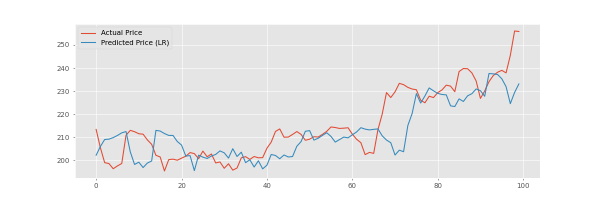
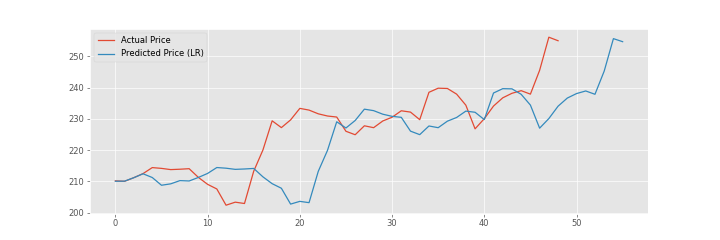
Add pretrained models (LSTM, XGB, LR) for Render deployment

diff --git a/main.py b/main.py
@@ -29,6 +29,11 @@ xgb_model = joblib.load("models/xgb_model.pkl")
 xgb_scaler = joblib.load("models/xgb_scaler.pkl")
 xgb_rmse = joblib.load("models/xgb_rmse.pkl")
 
+lr_model = joblib.load("models/lr_model.pkl")
+lr_scaler = joblib.load("models/lr_scaler.pkl")
+lr_rmse = joblib.load("models/lr_rmse.pkl")
+
+
 # Warm-up LSTM (avoid first-request delay)
 try:
     lstm_model.predict(np.zeros((1, 7, 1)))
@@ -107,7 +112,7 @@ def compute_rsi(series, period=14):
 # =================== Prediction Functions ===================
 def LSTM_ALGO(df):
     """Plot last 400 days with actual vs predicted trace + 7-day forecast"""
-    df = df.tail(400).reset_index(drop=True)
+    df = df.tail(300).reset_index(drop=True)
     closes = df['close'].values.reshape(-1, 1)
     scaled = lstm_scaler.transform(closes)
 
@@ -125,8 +130,8 @@ def LSTM_ALGO(df):
 
         # Plot last 100 aligned actual vs predicted
         plt.figure(figsize=(12, 4), dpi=60)
-        plt.plot(y_true[-100:], label='Actual Price')
-        plt.plot(y_pred[-100:], label='Predicted Price (LSTM)')
+        plt.plot(y_true[-60:], label='Actual Price')
+        plt.plot(y_pred[-60:], label='Predicted Price (LSTM)')
         plt.legend()
         plt.savefig('static/LSTM.png')
         plt.close()
@@ -150,7 +155,7 @@ def LSTM_ALGO(df):
 
 def XGBOOST_ALGO(df):
     """Train on 2000 rows, plot last 400 test rows (old OG version, 71 features)."""
-    df = df.tail(600).reset_index(drop=True)
+    df = df.tail(300).reset_index(drop=True)
     df['Return'] = df['close'].pct_change()
 
     # Lag features (30 days each → 60 features)
@@ -181,8 +186,8 @@ def XGBOOST_ALGO(df):
 
     # Plot last 100
     plt.figure(figsize=(12, 4), dpi=60)
-    plt.plot(test_df['close'].values[-100:], label='Actual Price')
-    plt.plot(pred_prices[-100:], label='Predicted Price (XGB)')
+    plt.plot(test_df['close'].values[-60:], label='Actual Price')
+    plt.plot(pred_prices[-60:], label='Predicted Price (XGB)')
     plt.legend()
     plt.savefig('static/XGB.png')
     plt.close()
@@ -247,47 +252,39 @@ def ARIMA_ALGO(df):
 
 
 def LIN_REG_ALGO(df):
-    """Baseline Linear Regression on recent 600 rows, plot last 100 test rows"""
-    from sklearn.preprocessing import StandardScaler
-    df = df.tail(600).reset_index(drop=True)   # limit rows
+    """Use pretrained Linear Regression for quick predictions."""
     forecast_out = 7
+    df = df.tail(300).reset_index(drop=True)
 
-    # simple moving averages + returns
-    df['MA7'] = df['close'].rolling(window=7).mean()
-    df['MA21'] = df['close'].rolling(window=21).mean()
-    df['Return'] = df['close'].pct_change()
+    df["MA7"] = df["close"].rolling(window=7).mean()
+    df["MA21"] = df["close"].rolling(window=21).mean()
+    df["Return"] = df["close"].pct_change()
     df = df.dropna().reset_index(drop=True)
 
-    # target is shifted price
-    df['target'] = df['close'].shift(-forecast_out)
-    df = df.dropna().reset_index(drop=True)
-
-    features = ['close', 'MA7', 'MA21', 'Return']
-    X, y = df[features].values, df['target'].values.reshape(-1, 1)
-    split_index = int(len(X) * 0.8)
-    X_train, X_test = X[:split_index], X[split_index:]
-    y_train, y_test = y[:split_index], y[split_index:]
-
-    scaler = StandardScaler()
-    X_train, X_test = scaler.fit_transform(X_train), scaler.transform(X_test)
-
-    model = LinearRegression().fit(X_train, y_train)
+    features = ["close", "MA7", "MA21", "Return"]
+    X = df[features].values
 
     # forecast next 7 days
-    forecast_set = model.predict(scaler.transform(df[features].tail(forecast_out)))
+    forecast_set = lr_model.predict(lr_scaler.transform(df[features].tail(forecast_out)))
     lr_pred = forecast_set[0][0]
     mean = float(forecast_set.mean())
-    error = math.sqrt(mean_squared_error(y_test, model.predict(X_test)))
 
-    # plot only last 100 test points
+    # plot last 100 actual vs predicted
+    split_index = int(len(X) * 0.8)
+    X_test = X[split_index:]
+    y_test = df["close"].shift(-forecast_out).dropna().values[split_index:]
+
+    y_pred_test = lr_model.predict(lr_scaler.transform(X_test))
+
     plt.figure(figsize=(12, 4), dpi=60)
-    plt.plot(y_test[-100:], label='Actual Price')
-    plt.plot(model.predict(X_test)[-100:], label='Predicted Price (LR)')
+    plt.plot(y_test[-60:], label="Actual Price")
+    plt.plot(y_pred_test[-60:], label="Predicted Price (LR)")
     plt.legend()
-    plt.savefig('static/LR.png')
+    plt.savefig("static/LR.png")
     plt.close()
 
-    return df, lr_pred, forecast_set, mean, error
+    return df, lr_pred, forecast_set, mean, lr_rmse
+
 
 
 
@@ -317,6 +314,8 @@ def insertintotable():
         arima_pred, error_arima = 0.0, "N/A"
     else:
         arima_pred, error_arima = ARIMA_ALGO(df.copy())
+    
+    
 
     lstm_pred, error_lstm, lstm_forecast = LSTM_ALGO(df.copy())
     _, lr_pred, forecast_set, mean, error_lr = LIN_REG_ALGO(df.copy())

diff --git a/train_lin_reg.py b/train_lin_reg.py
@@ -1,0 +1,74 @@
+import requests
+import pandas as pd
+import numpy as np
+import joblib, math
+from sklearn.linear_model import LinearRegression
+from sklearn.preprocessing import StandardScaler
+from sklearn.metrics import mean_squared_error
+
+# ================== Config ==================
+API_KEY = "cda2e65c28ee4d44a12f6d37d3e4667b"   # replace with your real key
+SYMBOL = "AAPL"                       # stock used for training (baseline model)
+
+# ================== Fetch Data ==================
+def get_historical(symbol, api_key=API_KEY):
+    url = f"https://api.twelvedata.com/time_series?symbol={symbol}&interval=1day&outputsize=2000&apikey={api_key}"
+    response = requests.get(url)
+    data = response.json()
+
+    if "values" not in data:
+        raise ValueError(f"Twelve Data Error: {data}")
+
+    df = pd.DataFrame(data["values"])
+    df = df.rename(columns={
+        "datetime": "date",
+        "open": "open",
+        "high": "high",
+        "low": "low",
+        "close": "close",
+        "volume": "volume"
+    })
+    df["date"] = pd.to_datetime(df["date"])
+    df = df.sort_values("date")
+
+    df["close"] = pd.to_numeric(df["close"], errors="coerce")
+    df["volume"] = pd.to_numeric(df["volume"], errors="coerce")
+    df = df.dropna()
+    return df
+
+df = get_historical(SYMBOL)
+
+# ================== Feature Engineering ==================
+forecast_out = 7
+df["MA7"] = df["close"].rolling(window=7).mean()
+df["MA21"] = df["close"].rolling(window=21).mean()
+df["Return"] = df["close"].pct_change()
+df = df.dropna().reset_index(drop=True)
+
+df["target"] = df["close"].shift(-forecast_out)
+df = df.dropna().reset_index(drop=True)
+
+features = ["close", "MA7", "MA21", "Return"]
+X, y = df[features].values, df["target"].values.reshape(-1, 1)
+
+split_index = int(len(X) * 0.8)
+X_train, X_test = X[:split_index], X[split_index:]
+y_train, y_test = y[:split_index], y[split_index:]
+
+# ================== Scale + Train ==================
+scaler = StandardScaler()
+X_train_scaled, X_test_scaled = scaler.fit_transform(X_train), scaler.transform(X_test)
+
+model = LinearRegression().fit(X_train_scaled, y_train)
+
+# ================== Evaluate ==================
+y_pred = model.predict(X_test_scaled)
+rmse = math.sqrt(mean_squared_error(y_test, y_pred))
+print(f"Linear Regression RMSE: {rmse}")
+
+# ================== Save Model & Scaler ==================
+joblib.dump(model, "models/lr_model.pkl")
+joblib.dump(scaler, "models/lr_scaler.pkl")
+joblib.dump(rmse, "models/lr_rmse.pkl")
+
+print("✅ Linear Regression model, scaler, and RMSE saved successfully.")
